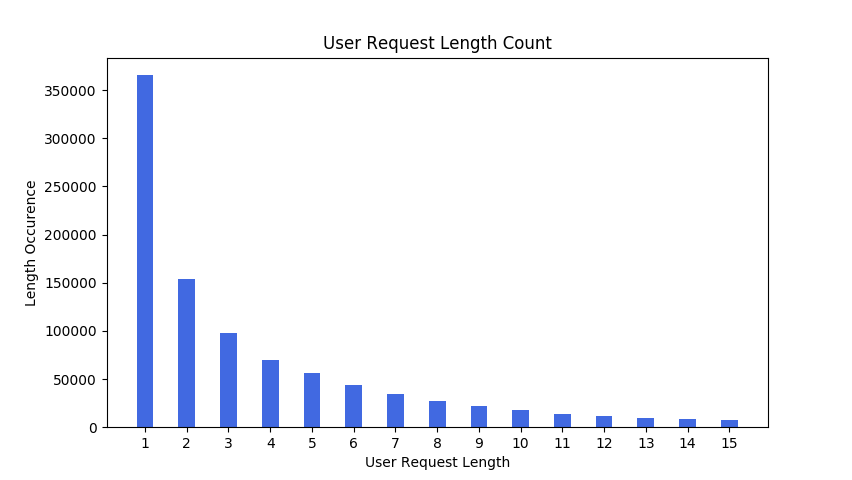
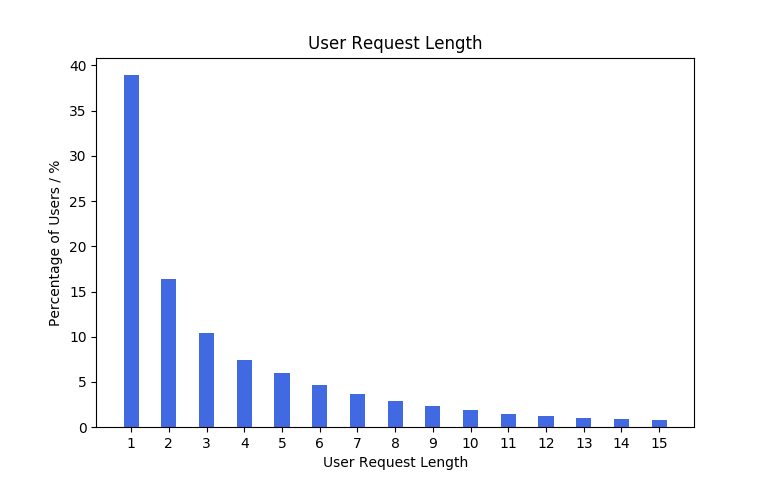
added comparision of usage of different lengths

diff --git a/abnormPG.py b/abnormPG.py
@@ -5,9 +5,9 @@ import numpy as np
 from scipy import stats
 
 from readfile import readData
-from plot_request_len import boxplotLen, plot_requestLen
-import categoryBin 
-from transitMatrix import gen_transitMat, transHeatMap 
+from flatNestedList import flat0sep
+from catLenPattern import lenClass_bins, pie_lenClass, cat_bar
+from transitMatrix import gen_transitMat, transHeatMap
 
 pg_raw, pg_category = readData('msnbc990928.seq')
 
@@ -17,20 +17,43 @@ sessLength_stats = {'mean': np.mean(sessLength), 'median': np.median(sessLength)
 '90Pct': np.percentile(sessLength, 90), '95Pct': np.percentile(sessLength, 95), \
 '99Pct': np.percentile(sessLength, 99), '99_5Pct': np.percentile(sessLength, 99.5)   }
 
-pg_abnorm = [ i for i in pg_raw if (len(i) >= sessLength_stats["95Pct"] and len(i) < sessLength_stats["99Pct"])  ]
+pg1_50 = [ i for i in pg_raw if (len(i) >=1 and len(i) <= sessLength_stats["median"])  ]
+pg50_75 = [ i for i in pg_raw if (len(i) > sessLength_stats["median"] and len(i) <= sessLength_stats["75Pct"]) ]
+pg75_95 = [ i for i in pg_raw if (len(i) > sessLength_stats["75Pct"] and len(i) <= sessLength_stats["95Pct"]) ]
+pg95_99 = [ i for i in pg_raw if (len(i) > sessLength_stats["95Pct"] and len(i) <= sessLength_stats["99Pct"]) ]
+pg_99 = [ i for i in pg_raw if len(i) > sessLength_stats["99Pct"] ]
 
-lenAbnorm = np.array ( [ len(i) for i in pg_abnorm ] )
+classList = ['<=50th', '50 - 75th', '75 - 95th', '95 - 99th', '>99th' ]
+groupSize = [ len(pg1_50), len(pg50_75), len(pg75_95), len(pg95_99), len(pg_99) ]
+flat_pg = [ flat0sep(pg1_50), flat0sep(pg50_75), flat0sep(pg75_95), flat0sep(pg95_99), flat0sep(pg_99) ]
 
-lenAbnorm_stats = {'mean': np.mean(lenAbnorm), 'max': np.amax(lenAbnorm), 'min': np.amin(lenAbnorm)  }
+## Category of all pages
+flag_pg_bins = lenClass_bins(flat_pg)
+np.savetxt("flag_pg_bins.csv", flag_pg_bins, delimiter=",")
+# pie_lenClass(flag_pg_bins, classList)
+cat_bar(flag_pg_bins, pg_category, classList)
+## 
 
-# boxplotLen(lenAbnorm)
+
+'''
+transMat0150 = gen_transitMat(pg1_50, 0)
+transHeatMap(transMat0150, pg_category)
+
+transMat5075 = gen_transitMat(pg50_75, 0)
+transHeatMap(transMat5075, pg_category)
+
+transMat7595 = gen_transitMat(pg75_95, 0)
+transHeatMap(transMat7595, pg_category)
+
+transMat9599 = gen_transitMat(pg95_99, 0)
+transHeatMap(transMat9599, pg_category)
+
+transMat99 = gen_transitMat(pg_99, 0)
+transHeatMap(transMat99, pg_category)
 
 category_bin = categoryBin.total_cat_bin(pg_abnorm)
 rm_consec_bin, rm_consecut_pg = categoryBin.rm_consecut_bin(pg_abnorm)
 rm_re_bin = categoryBin.rm_repeat_bin(pg_abnorm)
-# categoryBin.plotCatBin(category_bin, rm_consec_bin, rm_re_bin, pg_category)
-
-transitMat = gen_transitMat(pg_abnorm, 0)
-transHeatMap(transitMat, pg_category)
-
+categoryBin.plotCatBin(category_bin, rm_consec_bin, rm_re_bin, pg_category)
+'''
 raw_input()

diff --git a/init_read.py b/init_read.py
@@ -6,7 +6,7 @@ from scipy import stats
 
 from readfile import readData
 from plot_request_len import plotLen, boxplotLen, plot_requestLen # plot user request lengths
-from singleRequest import single_request, pie_singReqst_cat, singReqst_cat_adj # single-page requests
+from singleRequest import single_request, pie_singReqst_cat, singReqst_cat # single-page requests
 from transitMatrix import gen_transitMat, transHeatMap # transition matrix of categories
 import categoryBin # page request count by category
 from categryData import webEntry
@@ -24,42 +24,41 @@ sessLength_stats = {'mean': np.mean(sessLength), 'median': np.median(sessLength)
 #plotLen(sessLength)
 #boxplotLen(sessLength)
 
-#pg99Pct = [ i for i in pg_raw if len(i) < sessLength_stats["95Pct"] ]
+pg99Pct = [ i for i in pg_raw if len(i) < sessLength_stats["95Pct"] ]
 
-pg99Pct = [ i for i in pg_raw if (len(i) >= sessLength_stats["95Pct"] and len(i) < sessLength_stats["95Pct"])  ]
-
+#pg99Pct = [ i for i in pg_raw if (len(i) >= sessLength_stats["95Pct"] and len(i) < sessLength_stats["99Pct"])  ]
 
 sessLength99 = np.array ( [ len(i) for i in pg99Pct ] )
-
+print sessLength99.size
+'''
 sessLength99_stats = {'mean': np.mean(sessLength99), 'median': np.median(sessLength99), \
 'mode': stats.mode(sessLength99), '75Pct': np.percentile(sessLength99, 75), \
 '90Pct': np.percentile(sessLength99, 90), '95Pct': np.percentile(sessLength99, 95), \
 '99Pct': np.percentile(sessLength99, 99), '99_5Pct': np.percentile(sessLength99, 99.5)   }
 
 print sessLength99_stats
-
 '''
-boxplotLen(sessLength99)
+#boxplotLen(sessLength99)
 plot_requestLen(sessLength99)
 
 ## Page request by category
 category_bin = categoryBin.total_cat_bin(pg99Pct)
 rm_consec_bin, rm_consecut_pg = categoryBin.rm_consecut_bin(pg99Pct)
 rm_re_bin = categoryBin.rm_repeat_bin(pg99Pct)
-categoryBin.plotCatBin(category_bin, rm_consec_bin, rm_re_bin, pg_category)
+#categoryBin.plotCatBin(category_bin, rm_consec_bin, rm_re_bin, pg_category)
 
 ## Single page requests
 one_category, one_cat_bins = single_request(pg99Pct)
-pie_singReqst_cat(one_cat_bins, pg_category)
-singReqst_cat_adj(one_cat_bins, rm_re_bin, pg_category)
-
+singReqst_cat(one_cat_bins, sessLength99.size, pg_category)
+#pie_singReqst_cat(one_cat_bins, pg_category)
+'''
 ## Category transition
 transitMat = gen_transitMat(pg99Pct, 0)
 transHeatMap(transitMat, pg_category)
 
 transitMatRp = gen_transitMat(rm_consecut_pg, 0)
 transHeatMap(transitMatRp, pg_category)
-
-webEntry(pg99Pct, rm_re_bin, pg_category)
 '''
+webEntry(pg99Pct, sessLength99.size, pg_category)
+
 raw_input()

diff --git a/catLenPattern.py b/catLenPattern.py
@@ -1,0 +1,63 @@
+#!/usr/bin/env python
+
+import numpy as np
+import matplotlib.pyplot as plt
+from itertools import izip
+
+## number of pages in each category in each class
+def lenClass_bins(flat_pg):
+    flag_pg_bins = [ ]
+
+    for i in flat_pg:
+        bins = np.bincount(i)
+        bins = np.delete(bins,0)
+        flag_pg_bins.append(bins)
+
+    return flag_pg_bins
+
+# pie chart of number of page request of each class
+def pie_lenClass(flag_pg_bins, classList):
+    pgCount = np.sum(flag_pg_bins, axis=1) 
+    fig, ax = plt.subplots()
+    ax.pie( pgCount, labels = classList, autopct='%1.1f%%',  shadow=False, startangle=90 )
+    ax.axis('equal')
+    plt.title('Page Request Distribution')
+    plt.show()
+
+def cat_bar(flag_pg_bins, pg_category, classList):
+    data = []
+    for n in flag_pg_bins: data.append( np.true_divide(n, np.sum(n)) ) 
+    
+    #for i, j in izip(flag_pg_bins, groupSize):
+     #   data.append( np.true_divide(i, j) )
+
+    width = 0.15
+    
+    idx = range(5)
+
+    for i in idx: idx[i] = np.add( np.arange(17), width*i + 0.1  )
+
+    fig = plt.figure()
+    ax = fig.add_subplot(111)
+    plot1 = ax.bar(idx[0], data[0], width, color = (1, 0, 0.3) )
+    plot2 = ax.bar(idx[1], data[1], width, color = (0.7, 1, 0.1) )
+    plot3 = ax.bar(idx[2], data[2], width, color = (0.4, 0.4, 1) )
+    plot4 = ax.bar(idx[3], data[3], width, color = (1, 0.5, 0) )
+    plot5 = ax.bar(idx[4], data[4], width, color = (0.7, 0.3, 0.8) )
+
+    ax.set_title('Page Requests by Category')
+    ax.set_ylabel('Percentage of page request in class / %')
+    ax.set_xlabel('Category')
+    ax.set_xticks(idx[2])
+    ax.set_xticklabels(pg_category, rotation = 55)
+    ax.legend( [plot1,plot2,plot3, plot4, plot5], classList)
+    plt.show()
+
+
+'''
+def cat_len(flat_pg):
+    uniqueCat = np.unique(data)
+    for n in uniqueCat:
+        np.diff(np.where(np.concatenate(([data[0]], data[:-1] != data[1:],
+            [n])))[0])[::2]
+'''

diff --git a/categoryBin.py b/categoryBin.py
@@ -23,14 +23,15 @@ def rm_repeat_bin(pg99Pct):
     return rm_re_bin
 
 def plotCatBin(category_bin, rm_consec_bin, rm_re_bin, pg_category):
-    middleDiff = (rm_consec_bin - rm_re_bin)/ sum(category_bin)
-    topDiff = category_bin - rm_consec_bin / sum(category_bin)
+    middleStack = np.true_divide( rm_consec_bin - rm_re_bin, sum(category_bin) )*100
+    topStack = np.true_divide( category_bin - rm_consec_bin, sum(category_bin) )*100
+    bottomStack = np.true_divide( rm_re_bin, sum(category_bin) )*100
     idx = range(17)
     
     plott = plt.figure()
-    plot1 = plt.bar(idx, rm_re_bin/sum(category_bin), width = 0.4, color = (0.254902, 0.411765, 0.882353) )
-    plot2 = plt.bar(idx, middleDiff, bottom = rm_re_bin, width = 0.4, color = (0.443137, 0.776471, 0.443137) )
-    plot3 = plt.bar(idx, topDiff, bottom = middleDiff+rm_re_bin, width = 0.4, color = (1, 0.843137, 0) )
+    plot1 = plt.bar(idx, bottomStack, width = 0.4, color = (0.254902, 0.411765, 0.882353) )
+    plot2 = plt.bar(idx, middleStack, bottom = bottomStack, width = 0.4, color = (0.443137, 0.776471, 0.443137) )
+    plot3 = plt.bar(idx, topStack, bottom = middleStack+bottomStack, width = 0.4, color = (1, 0.843137, 0) )
     
     plt.title('Page Request by Category')
     plt.ylabel('Percentage of total page counts')

diff --git a/plot_request_len.py b/plot_request_len.py
@@ -4,6 +4,7 @@ import numpy as np
 import matplotlib.pyplot as plt
 
 def plotLen(sessLength):
+    
     plot1 = plt.figure()
     plt.plot(sessLength, color = (0.254902, 0.411765, 0.882353) )
     plt.ylabel('User Request Length')
@@ -21,14 +22,16 @@ def boxplotLen(sessLength):
 
 def plot_requestLen(sessLength):
     sessLengthsize = np.bincount(sessLength)
-    sessLengthsize = np.delete(sessLengthsize, [range(0,10)] )
-  
+    sessLengthsize = np.delete(sessLengthsize, 0)#[range(0,10)] )
+    sessLengthsize = np.true_divide( sessLengthsize, sessLength.size )*100
+    idx = range(1,sessLengthsize.size+1)
+
     plot3 = plt.figure()
-    plt.bar(range(10,sessLengthsize.size+10), sessLengthsize, width = 0.4, align = 'center', color = (0.254902, 0.411765, 0.882353) )
-    plt.title("User Request Length Count")
+    plt.bar(idx, sessLengthsize, width = 0.4, align = 'center', color = (0.254902, 0.411765, 0.882353) )
+    plt.title("User Request Length")
     plt.xlabel('User Request Length')
-    plt.ylabel('Length Occurrence')
-    plt.xticks( range(10,sessLengthsize.size+10) )
+    plt.ylabel('Percentage of Users / %')
+    plt.xticks(idx)
     plot3.show()
     
     

diff --git a/categryData.py b/categryData.py
@@ -3,16 +3,16 @@
 import numpy as np
 import matplotlib.pyplot as plt
 
-def webEntry(pg99Pct, rm_re_bin, pg_category):
+def webEntry(pg99Pct, sessLen_size, pg_category):
     first_Cat = [ x[0] for x in [ i for i in pg99Pct if len(i) > 1] ]
     firstCat_bin = np.bincount(first_Cat)
     firstCat_bin = np.delete(firstCat_bin, 0)
 
-    data = np.true_divide(firstCat_bin, rm_re_bin)
+    data = np.true_divide(firstCat_bin, sessLen_size)*100
     
     idx = np.arange(17)
     plot1 = plt.figure()
-    plt.bar(idx, data*100, width = 0.4, align = 'center', color = (0.254902, 0.411765, 0.882353) )
+    plt.bar(idx, data, width = 0.4, align = 'center', color = (0.254902, 0.411765, 0.882353) )
     plt.title("Percentage Request as Website Entrance by Page Category")
     plt.xlabel('Category')
     plt.ylabel('Percentage of User / %')

diff --git a/singleRequest.py b/singleRequest.py
@@ -17,14 +17,14 @@ def pie_singReqst_cat(one_cat_bins, pg_category):
     plt.title("Single-Page-Request Counts by Page Categories")
     plt.show()
 
-def singReqst_cat_adj(one_cat_bins, rm_re_bin, pg_category):
-    data = np.true_divide(one_cat_bins, rm_re_bin)
+def singReqst_cat(one_cat_bins, sessLen_size, pg_category):
+    data = np.true_divide(one_cat_bins, sessLen_size )*100
     plot1 = plt.figure()
     idx = range(17)
-    plt.bar(idx, data*100, width = 0.4, color = (0.254902, 0.411765, 0.882353))
+    plt.bar(idx, data, width = 0.4, color = (0.254902, 0.411765, 0.882353))
     plt.xlabel('Categories')
     plt.ylabel('Percentage of User / %')
     plt.title("Percentage Single-Page-Request by Page Categories")
     plt.xticks(idx, pg_category, rotation = 55)
 
-    plt.show()
+    plot1.show()
